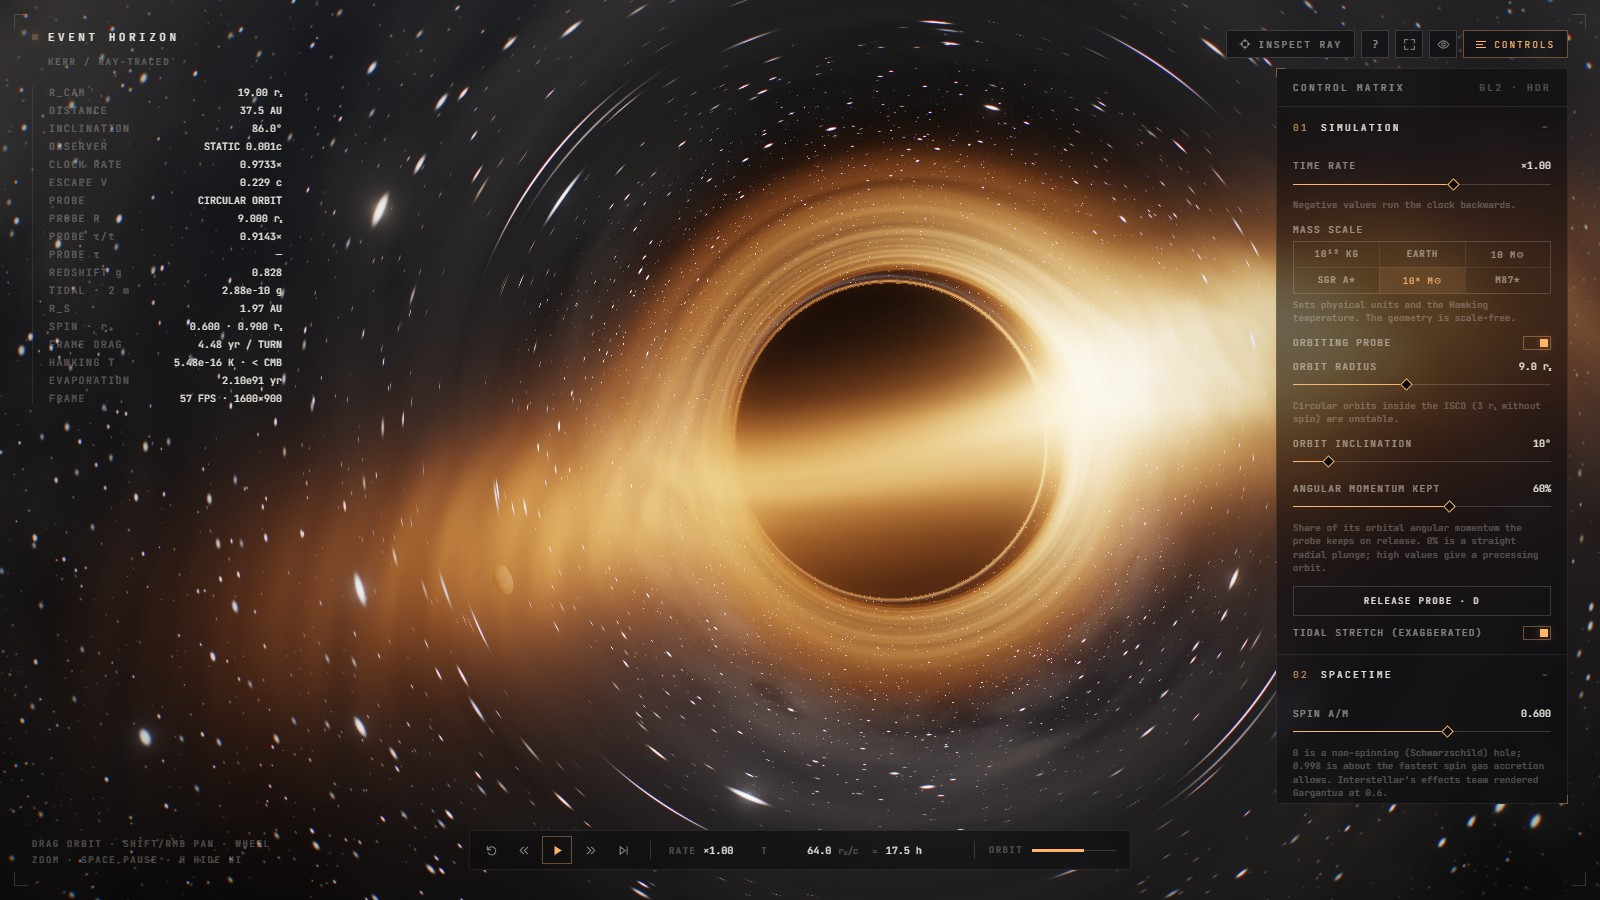
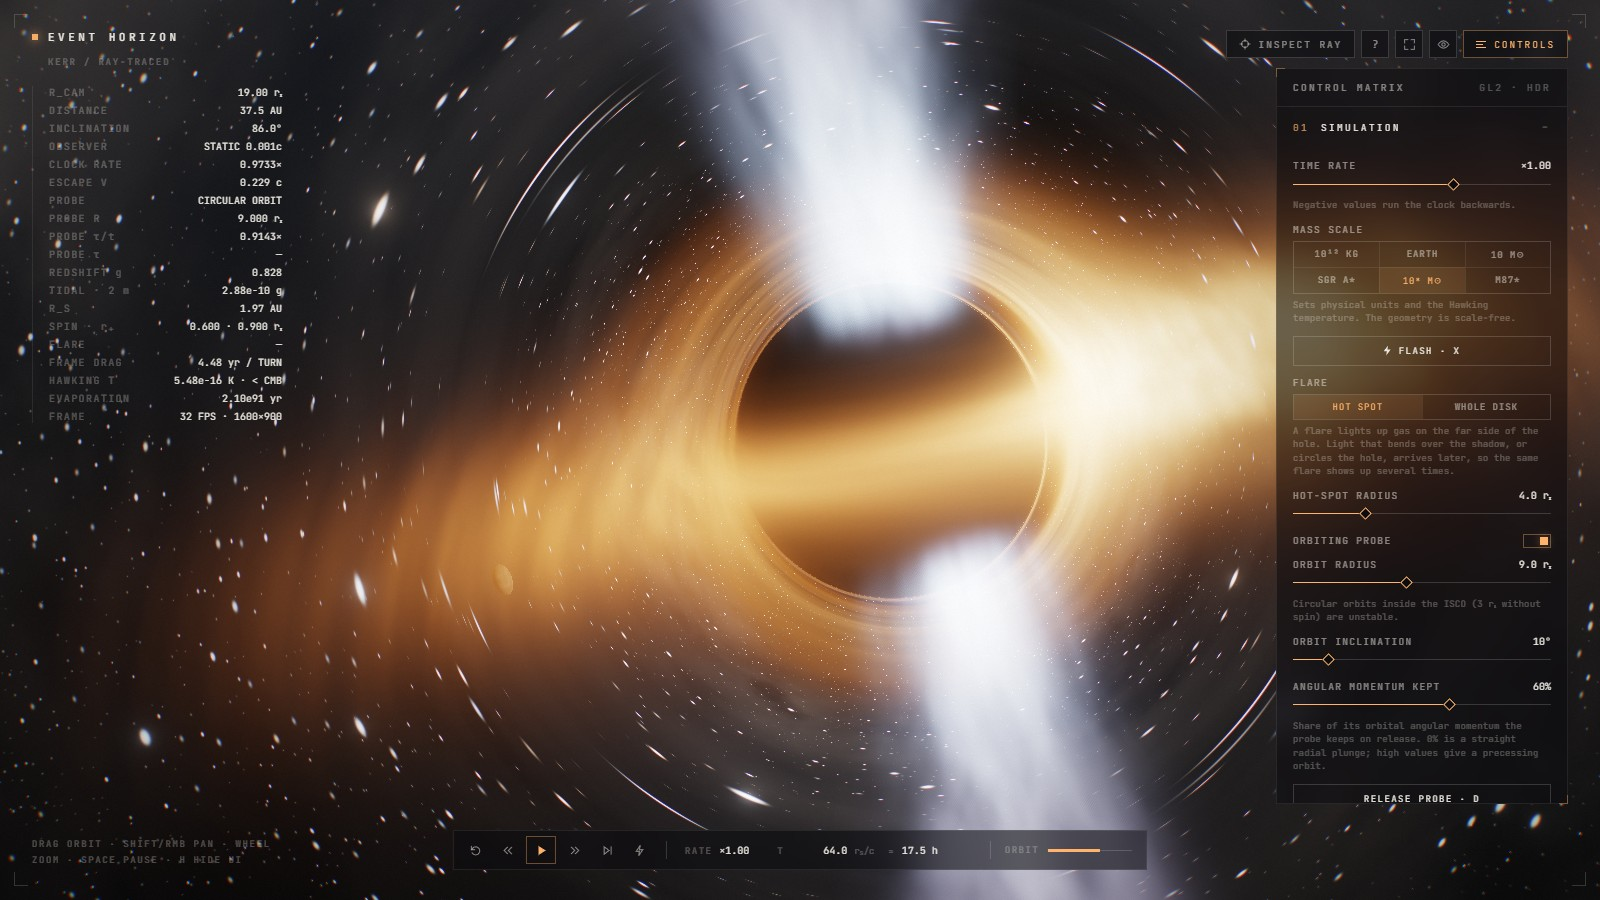
Relativistic jets along the spin axis
- Twin optically thin jets ray-traced through the Kerr metric (the jet
  behind the hole is lensed into view); conical widening, moving knots
  drawn at retarded time (apparent superluminal motion)
- Exact gravity/frame-drag shift times the bulk-flow Doppler factor,
  I ∝ g³: the approaching jet blazes, the counter-jet fades
- Power scales with spin² (Blandford-Znajek); no jets at a = 0
- Jets panel (power, Lorentz factor, opening, length), key J
- Field notes, README section, media

diff --git a/index.html b/index.html
@@ -110,22 +110,24 @@
         <p>Real black holes spin. Spin drags spacetime around with it, and the effect gets stronger close in. Inside the <em>ergosphere</em> (out to 1 r<sub>s</sub> at the equator) nothing can stay still relative to the distant stars; a static camera there is swept along, shown as <em>ERGO</em> in the telemetry. Spin shrinks the horizon (r₊ = 0.53 r<sub>s</sub> at a/M = 0.998) and lets gas orbiting with the spin come much closer: the ISCO moves from 3 r<sub>s</sub> down to 0.62 r<sub>s</sub>. Light moving with the rotation can skim closer than light moving against it, so the shadow is flattened on the side where the hole turns toward you. That is the "D" shape. Turn on the grid background and slide <em>Spin</em> to watch it form.</p>
         <h4><span>06</span>Thick, glowing disk</h4>
         <p>Real accretion flows have depth. Hot, inefficient ones like the gas around M87* puff up into a thick, mostly transparent torus. The <em>Thick</em> disk model traces each ray through that glowing gas instead of stopping at a sheet: it adds up light along the way and lets some of the background through. Gas inside the ISCO keeps glowing faintly as it plunges toward the horizon. This produces the hazy ring of the Event Horizon Telescope images, where the shadow is a dark dip in the glow rather than a hard black disk. Try <em>EHT view</em> (key 5) with a thickness of 0.3.</p>
-        <h4><span>07</span>Doppler beaming</h4>
+        <h4><span>07</span>Relativistic jets · press J</h4>
+        <p>Spinning holes threaded by magnetic fields launch twin jets of plasma along the spin axis at close to the speed of light. Their power comes from the hole's rotation (the Blandford–Znajek process, P ∝ a²), so at spin 0 there are no jets. The jet coming toward you is Doppler-boosted and blazes; the one going away is dimmed, which is why the counter-jet of M87 is so faint. The jet behind the hole is lensed into view like everything else. Bright knots ride outward, and on the approaching side they can appear to move faster than light, an effect of light-travel time.</p>
+        <h4><span>08</span>Doppler beaming</h4>
         <p>Gas near the ISCO moves at about half the speed of light. The side moving toward you looks brighter and bluer (intensity ∝ g⁴), the receding side dimmer and redder. Try the <em>Blackbody</em> palette at 100% Doppler.</p>
-        <h4><span>08</span>Gravitational redshift & time dilation</h4>
+        <h4><span>09</span>Gravitational redshift & time dilation</h4>
         <p>Light climbing out of the well loses energy by √(1 − r<sub>s</sub>/r). Clocks near the hole run slow by the same factor. The telemetry shows your camera's clock rate and the orbiting probe's (√(1 − 1.5 r<sub>s</sub>/r) for a circular orbit).</p>
-        <h4><span>09</span>Falling in · press D</h4>
+        <h4><span>10</span>Falling in · press D</h4>
         <p>Released from its orbit, the probe follows a real free-fall path. Its own clock (<em>PROBE τ</em>) reaches the horizon in a finite time. Seen from outside, it slows, reddens and fades, and never quite crosses: its light takes ever longer to climb out. Tidal forces stretch it along the fall direction. The <em>TIDAL · 2 m</em> readout gives the real stretching force on a 2 m body. It is lethal near a 10 M☉ black hole, but barely noticeable at the horizon of a supermassive one.</p>
-        <h4><span>10</span>Light echoes · press X</h4>
+        <h4><span>11</span>Light echoes · press X</h4>
         <p>Light that takes the long way round arrives late. <em>Flash</em> sets off a short flare in the gas behind the hole. You first see it lifted over the top of the shadow, then a few r<sub>s</sub>/c later again below it, and much later and fainter in the photon ring, each copy from light that circled the hole once more. Flashing slows time to ×0.25 so the echoes are easy to follow. The disk you see is always the disk as it was when its light left: lensed images show slightly older gas. The ray inspector gives each pixel's light travel time and how much longer it took than a straight line.</p>
-        <h4><span>11</span>Ray inspector · press T</h4>
+        <h4><span>12</span>Ray inspector · press T</h4>
         <p>Click any pixel to follow its light ray backwards. A light ray around a non-rotating black hole always stays in one plane, so the diagram shows its whole path. It tells you whether the ray hit the disk (and which image: primary, secondary, or deeper in the photon ring), the probe or the sky, or fell into the horizon. The deciding number is the impact parameter <em>b</em>: rays with b below b꜀ ≈ 2.6 r<sub>s</sub> are captured.</p>
-        <h4><span>12</span>Observer modes · press O</h4>
+        <h4><span>13</span>Observer modes · press O</h4>
         <p>What you see depends on how you move. A <em>static</em> camera hovers in place. An <em>orbiting</em> one rides a circular orbit, at 0.5c at the ISCO. A <em>free-falling</em> one drops from rest far away and reaches about 0.88c near the horizon. <em>Boost</em> moves toward the view at a speed you choose. Motion causes aberration: light from ahead bunches into a smaller patch of sky, so the hole looks smaller and farther away, and the forward view is brighter and bluer (intensity ∝ D⁴). A falling observer near the horizon sees a much smaller shadow than one hovering at the same radius.</p>
-        <h4><span>13</span>Mass scale & Hawking radiation</h4>
+        <h4><span>14</span>Mass scale & Hawking radiation</h4>
         <p>Quantum effects make every black hole glow faintly, at the Hawking temperature T = ħc³/8πGMk<sub>B</sub>. Smaller holes are hotter. A 10¹² kg primordial hole is about 10¹¹ K. A stellar one is a few billionths of a kelvin, colder than the cosmic microwave background, so it absorbs more than it radiates and slowly grows. Evaporation time scales as M³. Otherwise the picture is scale-free: it is identical for a 10 M☉ black hole and M87*, but one r<sub>s</sub>/c is 0.1 ms for the first and 18 hours for the second.</p>
-        <h4><span>14</span>Keys</h4>
-        <p class="keys"><b>Drag</b> orbit · <b>Shift/RMB drag</b> pan · <b>Wheel</b> zoom · <b>←↑→↓</b> orbit · <b>Space</b> play/pause · <b>[ ]</b> rate · <b>.</b> step · <b>0</b> reset time · <b>1–5</b> camera presets · <b>G</b> guides · <b>X</b> flash · <b>D</b> release/recall probe · <b>T</b> ray inspector · <b>O</b> observer mode · <b>P</b> snapshot · <b>R</b> record · <b>H</b> hide UI · <b>F</b> fullscreen</p>
+        <h4><span>15</span>Keys</h4>
+        <p class="keys"><b>Drag</b> orbit · <b>Shift/RMB drag</b> pan · <b>Wheel</b> zoom · <b>←↑→↓</b> orbit · <b>Space</b> play/pause · <b>[ ]</b> rate · <b>.</b> step · <b>0</b> reset time · <b>1–5</b> camera presets · <b>G</b> guides · <b>X</b> flash · <b>J</b> jets · <b>D</b> release/recall probe · <b>T</b> ray inspector · <b>O</b> observer mode · <b>P</b> snapshot · <b>R</b> record · <b>H</b> hide UI · <b>F</b> fullscreen</p>
       </div>
     </div>
   </div>

diff --git a/js/shaders.js b/js/shaders.js
@@ -59,6 +59,15 @@ uniform float uDelayRef;    // travel time subtracted so "now" is roughly the di
 uniform vec4  uFlare;       // emission time t_f, orbit radius, azimuth at t_f, mode (0 spot, 1 whole disk)
 uniform float uFlareOn;
 uniform float uFlareBright;
+/* relativistic jets along the spin axis */
+uniform float uJetOn;
+uniform float uJetPower;    // includes the spin scaling (Blandford-Znajek, ∝ a²)
+uniform float uJetBeta;
+uniform float uJetGamma;
+uniform float uJetW0;       // width at the base
+uniform float uJetOpen;     // widening per unit height (cone)
+uniform float uJetLen;
+uniform float uJetBase;     // height where the jet starts (just outside the horizon)
 
 uniform vec3  uObsBeta;     // observer velocity relative to a local static observer (units of c)
 uniform float uObsBeam;     // apply observer Doppler beaming to the image
@@ -215,6 +224,41 @@ vec3 diskSource(float r, float phi, float zn, float b, float camE, bool thick, f
   return hue * uDiskBright * (0.15 + f * f) * g4 * 2.2 * streak;
 }
 const vec3 FLARE_COLOR = vec3(0.78, 0.9, 1.0);
+
+/* ------------------------------------------------------------------ */
+/* Jets: optically thin glowing plasma flowing out along ±y at βc.    */
+/* ------------------------------------------------------------------ */
+const vec3 JET_COLOR = vec3(0.55, 0.78, 1.0);
+float jetWidth(float ay){ return uJetW0 + uJetOpen * ay; }
+
+/* emission over a path element ds at scene point p (Boyer-Lindquist Xbl),
+   for a backward ray heading along dir, seen at retarded time te */
+vec3 jetEmission(vec3 p, vec3 Xbl, vec3 dir, float b, float camE, float te, float ds){
+  float ay = abs(p.y);
+  if(ay < uJetBase || ay > uJetLen) return vec3(0.0);
+  float w = jetWidth(ay), u = length(p.xz) / w;
+  if(u > 3.5) return vec3(0.0);
+  /* Gaussian cross-section; total flux spreads as the jet widens; soft ends */
+  float prof = exp(-0.5 * u * u) * (uJetW0 * uJetW0) / (w * w)
+             * smoothstep(uJetBase, uJetBase + 1.0, ay) * (1.0 - smoothstep(0.5 * uJetLen, uJetLen, ay));
+  /* knots: brightness pattern carried outward at βc, with a slow helical twist,
+     evaluated at the time the light left, so they show apparent superluminal motion */
+  float side = p.y > 0.0 ? 0.0 : 13.7;
+  float ang = atan(p.z, p.x) + ay * 0.35 * sign(p.y);
+  float kn = fbm3(vec3(u * 1.2 * cos(ang), u * 1.2 * sin(ang), (ay - uJetBeta * te) * 0.45 + side));
+  kn = 0.3 + 1.6 * smoothstep(0.35, 0.8, kn);
+  /* Doppler from the bulk flow × gravity and frame dragging (camera frame vs local ZAMO) */
+  float D = 1.0 / (uJetGamma * (1.0 - uJetBeta * dot(vec3(0.0, sign(p.y), 0.0), -dir)));
+  float r = Xbl.x, cs = cos(Xbl.y), sn = sin(Xbl.y), a = uA, M = uM;
+  float rho2 = r * r + a * a * cs * cs, Dl = r * r - 2.0 * M * r + a * a;
+  float S2 = (r * r + a * a) * (r * r + a * a) - a * a * Dl * sn * sn;
+  float al = sqrt(max(rho2 * Dl / S2, 1e-6)), om = 2.0 * M * a * r / S2;
+  float G = camE * al / max(1.0 - om * b, 1e-3);
+  float g = clamp(D * mix(1.0, G, uRedshift), 0.0, 12.0);
+  /* synchrotron-like: I ∝ g³; tint bluer when boosted, magenta when dimmed */
+  vec3 tint = mix(vec3(0.95, 0.4, 0.75), JET_COLOR, smoothstep(0.08, 0.6, g));
+  return tint * uJetPower * prof * kn * g * g * g * ds;
+}
 
 /* Thin sheet: emission (premultiplied rgb) + opacity at the equatorial crossing.
    d is the (backward) ray direction in scene space. */
@@ -456,7 +500,7 @@ void main(){
   float jitter = fract(52.9829189 * fract(dot(gl_FragCoord.xy, vec2(0.06711056, 0.00583715))));
   /* rays crossing the gas, or passing near the spin axis, need many short
      steps; the extra budget is only spent by rays that need it */
-  int budget = uMaxSteps * (thick ? 3 : 1) + 256;
+  int budget = uMaxSteps * (thick ? 3 : 1) + (uJetOn > 0.5 ? 512 : 256);
 
   for(int i = 0; i < 3600; i++){
     if(i >= budget) break;
@@ -482,6 +526,11 @@ void main(){
       float snA = max(sin(X.y), 1e-4);
       float w = sqrt(Pm.y * Pm.y + b * b / (snA * snA));
       h = min(h, 0.3 * snA * (X.x * X.x + a2 * cos(X.y) * cos(X.y)) / max(w, 1e-6));
+    }
+    if(uJetOn > 0.5){
+      /* inside or near a jet, step a fraction of its width */
+      float ayj = abs(cPrev.y), wj = jetWidth(ayj);
+      if(ayj < uJetLen * 1.05 && length(cPrev.xz) < 4.0 * wj) h = min(h, max(0.35 * wj, 0.01));
     }
     h = -h;
     kerrStep(X, Pm, T, b, q, h);
@@ -525,6 +574,11 @@ void main(){
         col += (1.0 - alpha) * sm.rgb;
         alpha += (1.0 - alpha) * sm.a;
       }
+    }
+    if(uJetOn > 0.5){
+      float span = min(1.0, tPlan), ts = jitter * span;
+      col += (1.0 - alpha) * jetEmission(mix(cPrev, c1, ts), mix(X0, X, ts), dirOut, b, camE,
+                                         uTime - (mix(T0, T, ts) - uDelayRef), length(seg) * span);
     }
     if(tPlan <= 1.0){
       vec3 hp = mix(cPrev, c1, tPlan);

diff --git a/js/main.js b/js/main.js
@@ -46,6 +46,7 @@ const P = {
   observer: 'static', obsBeta: 0.5, obsMove: true, obsBeam: true,
   scale: 0.75, quality: 'med', bloom: 1.3, exposure: 1.05, vignette: 0.6, grain: true,
   flareMode: 'spot', flareR: 4, flareBright: 6,
+  jetOn: true, jetPower: 1, jetGamma: 2, jetW0: 0.35, jetOpen: 0.08, jetLen: 45,
   recRes: 'viewport', recDur: 10, recFps: 60,
 };
 
@@ -520,6 +521,16 @@ function render(){
   u4f(pr, 'uFlare', [flare.t, flare.r, flare.phi, flare.mode]);
   u1f(pr, 'uFlareOn', flare.on ? 1 : 0);
   u1f(pr, 'uFlareBright', P.flareBright);
+  // Blandford-Znajek: jet power ∝ a² (normalised to the default spin, 0.6)
+  const jetBeta = Math.sqrt(1 - 1 / (P.jetGamma * P.jetGamma));
+  u1f(pr, 'uJetOn', P.jetOn && P.spinA > 0.01 ? 1 : 0);
+  u1f(pr, 'uJetPower', 30 * P.jetPower * (P.spinA / 0.6) ** 2);
+  u1f(pr, 'uJetBeta', jetBeta);
+  u1f(pr, 'uJetGamma', P.jetGamma);
+  u1f(pr, 'uJetW0', P.jetW0);
+  u1f(pr, 'uJetOpen', P.jetOpen);
+  u1f(pr, 'uJetLen', P.jetLen);
+  u1f(pr, 'uJetBase', kerrRPlus(spinA()) + 0.25);
   u1f(pr, 'uEscape', Math.max(rCam * 1.05 + 2, P.diskOut * 1.4, 28));
   u1f(pr, 'uStepK', q.k);
   u1i(pr, 'uMaxSteps', q.steps);
@@ -648,6 +659,16 @@ const SECTIONS = [
     { t: 'seg', k: 'spin', label: 'Disk rotation', opts: [[1, 'PROGRADE'], [-1, 'RETROGRADE']], dep: 'diskOn',
       hint: 'Relative to the hole\'s spin. Retrograde orbits must stay farther out.' },
   ]},
+  { id: 'jet', title: 'Jets', items: [
+    { t: 'toggle', k: 'jetOn', label: 'Relativistic jets' },
+    { t: 'note', id: 'jetNote' },
+    { t: 'range', k: 'jetPower', label: 'Jet power', min: 0, max: 4, step: 0.01, fmt: v => v.toFixed(2), dep: 'jetOn' },
+    { t: 'range', k: 'jetGamma', label: 'Lorentz factor γ', min: 1.05, max: 10, step: 0.05,
+      fmt: v => v.toFixed(2) + ' · β ' + Math.sqrt(1 - 1 / (v * v)).toFixed(3), dep: 'jetOn',
+      hint: 'Bulk speed of the plasma. Faster jets beam more strongly: the jet coming toward you brightens and the one going away fades.' },
+    { t: 'range', k: 'jetOpen', label: 'Opening', min: 0, max: 0.3, step: 0.005, fmt: v => (Math.atan(v) * 180 / Math.PI).toFixed(1) + '°', dep: 'jetOn' },
+    { t: 'range', k: 'jetLen', label: 'Length', min: 8, max: 80, step: 1, fmt: v => v + ' rₛ', dep: 'jetOn' },
+  ]},
   { id: 'cam', title: 'Camera', items: [
     { t: 'buttons', items: [['Gargantua', () => applyPreset('gargantua')], ['Edge-on', () => applyPreset('edge')],
                             ['Polar', () => applyPreset('top')], ['Close pass', () => applyPreset('close')],
@@ -758,6 +779,10 @@ function syncUI(){
     `<div><i style="background:var(--cyan)"></i>${spinned ? 'PHOTON ORBITS · ' + phP.toFixed(2) + ' / ' + phR.toFixed(2) : 'PHOTON SPHERE · 1.50'} r<sub>s</sub></div>` +
     `<div><i style="background:var(--accent)"></i>ISCO · ${kerrIsco(aS, P.spin).toFixed(2)} r<sub>s</sub></div>` +
     `<div><i style="background:rgba(200,215,230,.5)"></i>GRID · 1 r<sub>s</sub> / 30°</div>`;
+  const jn = $('#jetNote');
+  if(jn) jn.textContent = P.spinA > 0.01
+    ? `Powered by the hole's spin (Blandford–Znajek, P ∝ a²): ${((P.spinA / 0.6) ** 2).toFixed(2)}× the power at a/M 0.6.`
+    : 'No spin, no jet: at a/M 0 there is no rotational energy to tap, so the jets switch off.';
   const sn = $('#spinNote');
   if(sn) sn.textContent = `Horizon r₊ ${kerrRPlus(aS).toFixed(3)} · ISCO ${kerrIsco(aS, 1).toFixed(2)} pro / ${kerrIsco(aS, -1).toFixed(2)} retro · photon orbits ${phP.toFixed(2)} / ${phR.toFixed(2)} · ergosphere 1.00 at the equator (all rₛ)`;
   const drop = document.querySelector('.btn.drop');
@@ -1010,6 +1035,7 @@ addEventListener('keydown', e => {
     case '5': applyPreset('eht'); break;
     case 'g': P.guides = !P.guides; syncUI(); break;
     case 'x': triggerFlash(); break;
+    case 'j': P.jetOn = !P.jetOn; syncUI(); break;
     case 'd': toggleProbe(); break;
     case 't': setInspectMode(!insp.mode); break;
     case 'o': { const m = ['static', 'orbit', 'fall', 'boost']; P.observer = m[(m.indexOf(P.observer) + 1) % m.length]; onParam('observer'); break; }

diff --git a/README.md b/README.md
@@ -107,6 +107,25 @@ Then open **http://localhost:5179**. Opening `index.html` directly also works. A
 
 The thick model replaces the sheet with a volume of hot gas. Its density falls off as a Gaussian above and below the plane, with scale height H = (H/R)·R, plus an optional broader **haze**. Each ray integrates emission and absorption step by step through the Kerr metric. The gas is mostly optically thin, so it glows more than it blocks, and the shadow becomes a dark depression in the light instead of a hard edge. Gas inside the ISCO keeps glowing as it plunges in, which is why the Event Horizon Telescope images look like a hazy ring. **EHT view** (key 5) looks down at 17°, the angle we see M87* from.
 
+### Launch the jets &nbsp;<sub><code>J</code></sub>
+
+<table>
+  <tr>
+    <td width="50%"><img src="docs/media/jets-side.jpg" alt="Twin relativistic jets seen side-on" width="100%"></td>
+    <td width="50%"><img src="docs/media/jets-beaming.jpg" alt="Jets seen at an angle: the approaching jet is bright, the counter-jet dim" width="100%"></td>
+  </tr>
+  <tr>
+    <td><sub><code>SIDE-ON</code> &nbsp;TWIN JETS ALONG THE SPIN AXIS · γ 2</sub></td>
+    <td><sub><code>TILTED 31°</code> &nbsp;APPROACHING JET BEAMED · COUNTER-JET DIMMED</sub></td>
+  </tr>
+</table>
+
+<p align="center">
+  <img src="docs/media/jets.gif" alt="Camera circling the hole while knots stream outward along the jets" width="100%">
+</p>
+
+Jets are optically thin plasma flowing out along the spin axis at Lorentz factor γ (adjustable; β = √(1 − 1/γ²)). The column widens with height and fades out; bright knots ride outward at βc. Every jet sample is ray-traced through the Kerr metric, so the jet behind the hole bends into view. Each sample is weighted by the exact gravitational and frame-dragging shift times the Doppler factor of the flow (I ∝ g³). The approaching jet blazes and the counter-jet nearly vanishes, as in M87. Knots are drawn at their retarded time, which produces apparent superluminal motion on the approaching side. Power follows the hole's spin (Blandford–Znajek, P ∝ a²): at a/M = 0 the jets switch off.
+
 ### Spin the hole &nbsp;<sub><code>SPIN a/M</code></sub>
 
 <table>
@@ -243,6 +262,15 @@ $$I \mathrel{+}= T\,S\,(1 - e^{-\Delta\tau}), \qquad T \mathrel{*}= e^{-k\,\Delt
 where $S$ is the gas's (redshifted) source function and $T$ the transmittance. The gas absorbs less than it emits, which approximates hot, optically thin flow. Steps shrink to $0.4H$ inside the gas, with two jittered samples per step.
 
 </td></tr>
+<tr><td><code>JETS</code></td><td>
+
+Emissivity $j \propto P\,e^{-\rho^2/2w^2}\,(w_0/w)^2$ with $w = w_0 + \tan\vartheta\,|y|$ and moving knots. Each sample is weighted by $g^3$, where
+
+$$g = \frac{1}{\gamma\,(1 - \beta\cos\psi)} \cdot \frac{E_{cam}}{E_{zamo}}, \qquad P \propto a^2$$
+
+and $\psi$ is the angle between the flow and the photon. The jets are optically thin and add light without blocking it.
+
+</td></tr>
 <tr><td><code>TIME DELAY</code></td><td>
 
 Each ray also integrates coordinate time, which in Boyer–Lindquist form is
@@ -306,6 +334,7 @@ Every astrophysical hole is far colder than the 2.7 K microwave background. The 
 | click *(inspect mode)* | trace that pixel's ray | | `D` | release / recall probe |
 | | | | `T` | ray inspector |
 | | | | `X` | flash (flare + echoes) |
+| | | | `J` | jets on / off |
 | | | | `O` | cycle observer mode |
 | | | | `P` | PNG snapshot |
 | | | | `R` | record / stop |
@@ -333,6 +362,9 @@ Every astrophysical hole is far colder than the 2.7 K microwave background. The 
 | | Inner edge at ISCO | on / off | Follows the spin and the rotation sense |
 | | Palette | Cinematic · Blackbody | Blackbody also sets Doppler to 100% |
 | | Temperature, inner/outer edge, luminosity, optical depth, turbulence, rotation | | |
+| Jets | On / off, power | 0 – 4 | Scaled by spin² (off at a/M 0) |
+| | Lorentz factor γ | 1.05 – 10 | Sets β and the strength of beaming |
+| | Opening, length | 0 – 17°, 8 – 80 rₛ | |
 | Camera | Observer | Static · Orbit · Free fall · Boost | Aberration and Doppler from the camera's own motion |
 | | Boost speed | 0 – 0.95c | Boost mode only |
 | | Follow trajectory, observer beaming | on / off | Orbit and fall move with simulation time |
@@ -378,7 +410,7 @@ EventHorizon.snapshot();
 ```
 index.html        HUD markup, field notes
 css/style.css     interface
-js/shaders.js     Kerr geodesic tracer, thin and volumetric disk, sky, bloom, tone mapping (GLSL ES 3.0)
+js/shaders.js     Kerr geodesic tracer, thin and volumetric disk, jets, sky, bloom, tone mapping (GLSL ES 3.0)
 js/main.js        render graph, Kerr helpers, camera, observer modes, probe, ray inspector, UI, export
 docs/             README media
 ```
